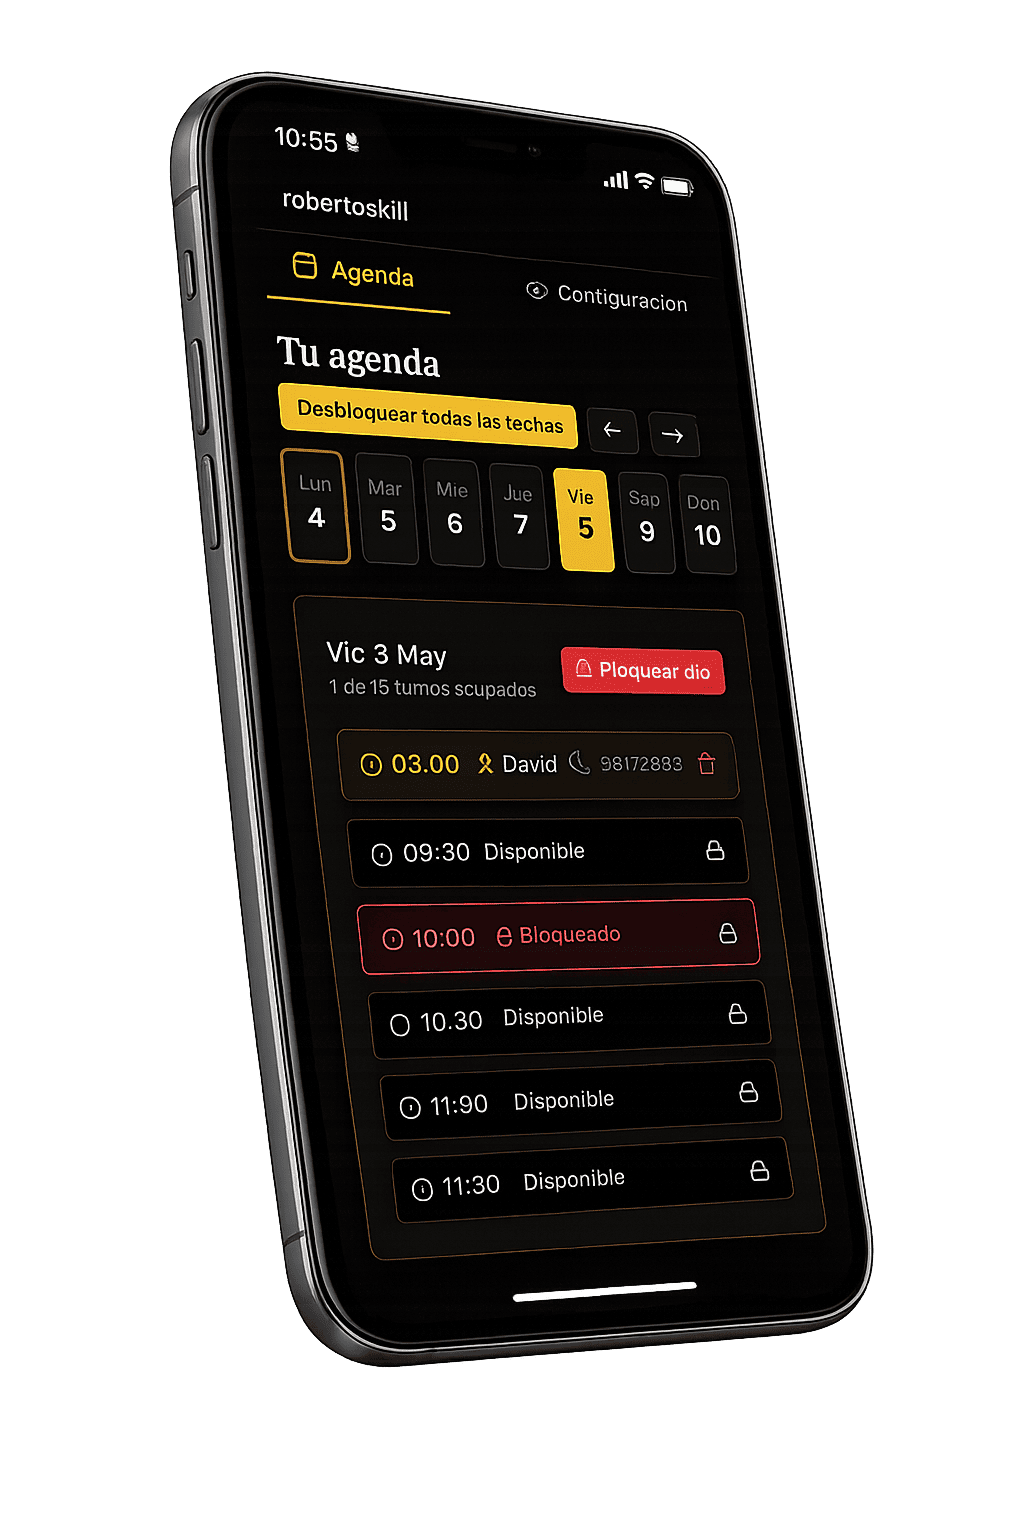
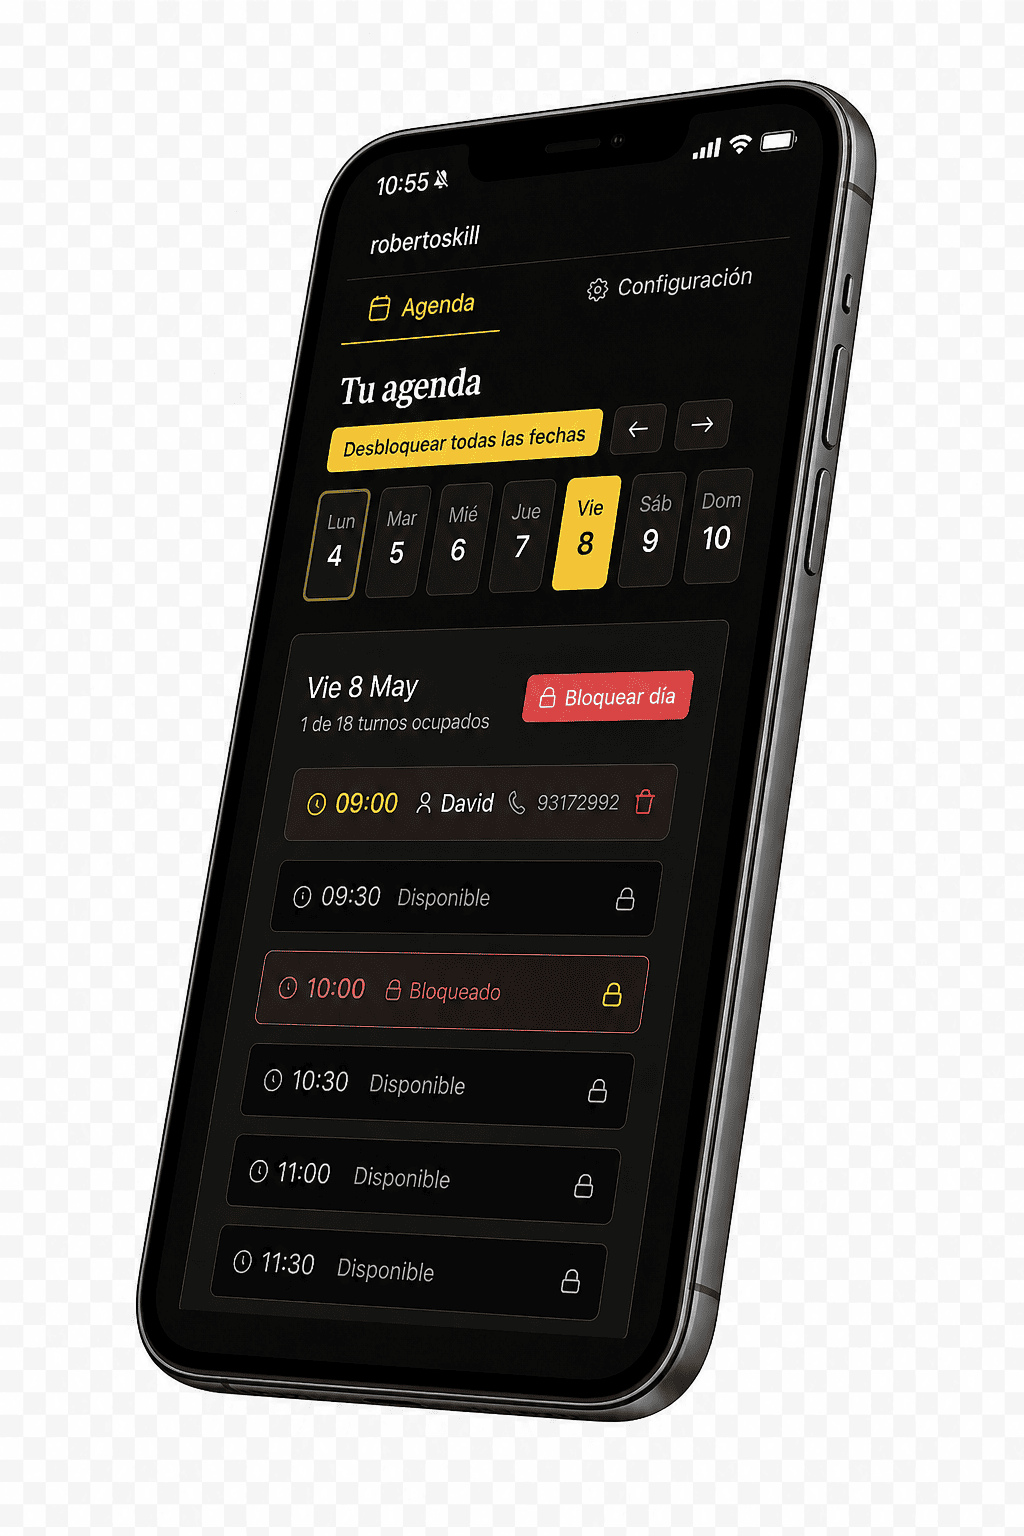
ajustando imagen

Changed region(s): [[0.125, 0.0312, 0.875, 0.9375]]

diff --git a/public/landing.html b/public/landing.html
@@ -337,11 +337,6 @@
     background-size: 60px 60px;
   }
 
-  .hero-content {
-    position: relative; z-index: 2;
-    max-width: 680px;
-  }
-
   .hero-badge {
     display: inline-flex; align-items: center; gap: 0.5rem;
     background: rgba(201,168,76,0.1);
@@ -407,44 +402,76 @@
   }
   .btn-ghost:hover { border-color: var(--gold); color: var(--gold); }
 
-  /* IPHONE MOCKUP */
-  .hero-mockup {
-    position: absolute; right: 4vw; top: 50%; transform: translateY(-50%);
-    width: 270px;
+  /* IPHONE MOCKUP — desktop */
+  .hero-content {
+    position: relative; z-index: 2;
+    max-width: 500px;
+  }
+
+  .hero-mockup--desktop {
+    position: absolute; right: 3vw; top: 50%; transform: translateY(-50%);
+    width: clamp(300px, 36vw, 440px);
     z-index: 2;
     animation: phoneEntrance 1s 0.5s cubic-bezier(0.16, 1, 0.3, 1) both;
   }
 
-  .hero-mockup img {
+  .hero-mockup--desktop img {
     width: 100%; display: block;
-    filter: drop-shadow(0 40px 70px rgba(0,0,0,0.85)) drop-shadow(0 0 60px rgba(201,168,76,0.14));
+    filter: drop-shadow(0 50px 80px rgba(0,0,0,0.9)) drop-shadow(0 0 70px rgba(201,168,76,0.15));
     animation: phoneFloat 5s ease-in-out 1.5s infinite;
   }
 
-  .hero-mockup::after {
+  .hero-mockup--desktop::after {
     content: '';
     position: absolute;
-    bottom: -16px; left: 50%; transform: translateX(-50%);
-    width: 55%; height: 28px;
-    background: radial-gradient(ellipse, rgba(201,168,76,0.4) 0%, transparent 70%);
-    filter: blur(8px);
+    bottom: -20px; left: 50%; transform: translateX(-50%);
+    width: 55%; height: 32px;
+    background: radial-gradient(ellipse, rgba(201,168,76,0.42) 0%, transparent 70%);
+    filter: blur(10px);
     animation: glowPulse 5s ease-in-out 1.5s infinite;
   }
 
+  /* IPHONE MOCKUP — mobile (oculto en desktop) */
+  .hero-mockup--mobile { display: none; }
+
   @media (max-width: 900px) {
     #hero {
-      flex-direction: column;
+      padding: 7rem 5vw 3rem;
       align-items: flex-start;
-      padding-bottom: 3rem;
     }
-    .hero-mockup {
-      position: relative; right: auto; top: auto;
-      transform: none;
-      width: 185px;
-      margin: 2.5rem auto 0;
+    .hero-content { max-width: 100%; }
+
+    .hero-mockup--desktop { display: none; }
+
+    .hero-mockup--mobile {
+      display: block;
+      position: relative;
+      width: 175px;
+      margin: 1.6rem auto 0;
       animation: phoneEntranceMobile 0.9s 0.5s cubic-bezier(0.16, 1, 0.3, 1) both;
     }
-    .hero-mockup::after { width: 50%; }
+
+    .hero-mockup--mobile img {
+      width: 100%; display: block;
+      filter: drop-shadow(0 28px 50px rgba(0,0,0,0.85)) drop-shadow(0 0 40px rgba(201,168,76,0.13));
+      animation: phoneFloat 5s ease-in-out 1.4s infinite;
+    }
+
+    .hero-mockup--mobile::after {
+      content: '';
+      position: absolute;
+      bottom: -12px; left: 50%; transform: translateX(-50%);
+      width: 50%; height: 20px;
+      background: radial-gradient(ellipse, rgba(201,168,76,0.38) 0%, transparent 70%);
+      filter: blur(6px);
+      animation: glowPulse 5s ease-in-out 1.4s infinite;
+    }
+
+    .hero-tagline {
+      font-size: 1rem;
+      margin-top: 1.4rem;
+      margin-bottom: 2rem;
+    }
   }
 
   /* SECTIONS COMMON */
@@ -1089,14 +1116,21 @@
       Sistema de turnos para barbería · 14 días gratis
     </div>
     <h1 class="hero-title">La agenda de turnos<br>que tu barbería <em>merece</em></h1>
-    <p class="hero-tagline">Olvida el papel, el WhatsApp y las llamadas perdidas. Sistema de reservas online para barberías en Chile: tus clientes sacan su turno solos, las 24 horas.</p>
+
+    <!-- Imagen solo visible en mobile, entre título y tagline -->
+    <div class="hero-mockup--mobile">
+      <img src="iphone.png" alt="TuBarber app en iPhone" draggable="false">
+    </div>
+
+    <p class="hero-tagline">Olvida el papel, el WhatsApp y las llamadas perdidas.<br>Tus clientes sacan su turno solos, las 24 horas.</p>
     <div class="hero-actions">
       <button class="btn-primary" onclick="openModal()">Empieza gratis 14 días</button>
       <button class="btn-ghost" onclick="document.getElementById('como-funciona').scrollIntoView({behavior:'smooth'})">Ver cómo funciona</button>
     </div>
   </div>
 
-  <div class="hero-mockup">
+  <!-- Imagen solo visible en desktop, posicionada a la derecha -->
+  <div class="hero-mockup--desktop">
     <img src="iphone.png" alt="TuBarber app en iPhone — agenda de turnos para barbería" draggable="false">
   </div>
 </section>
